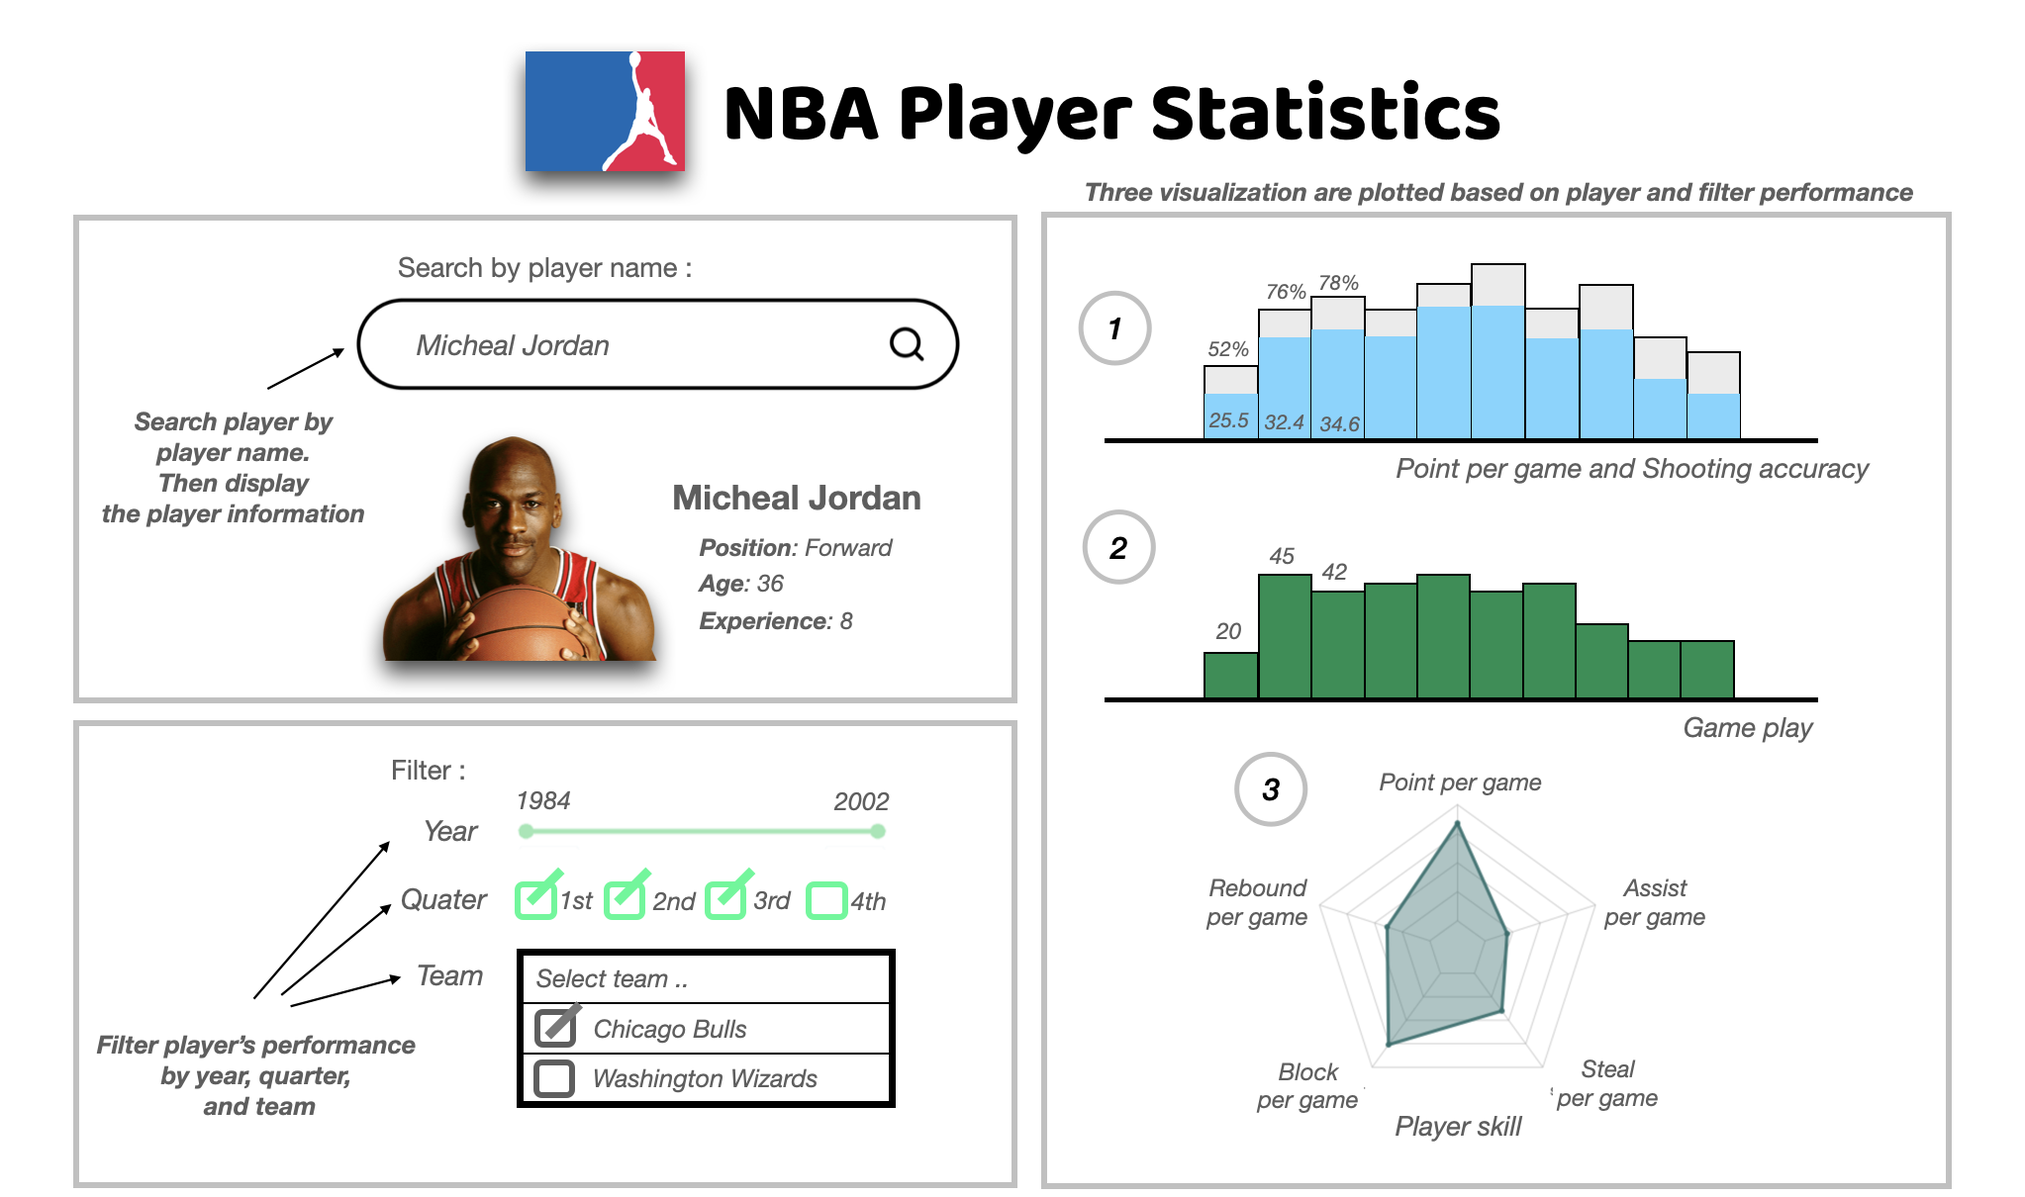
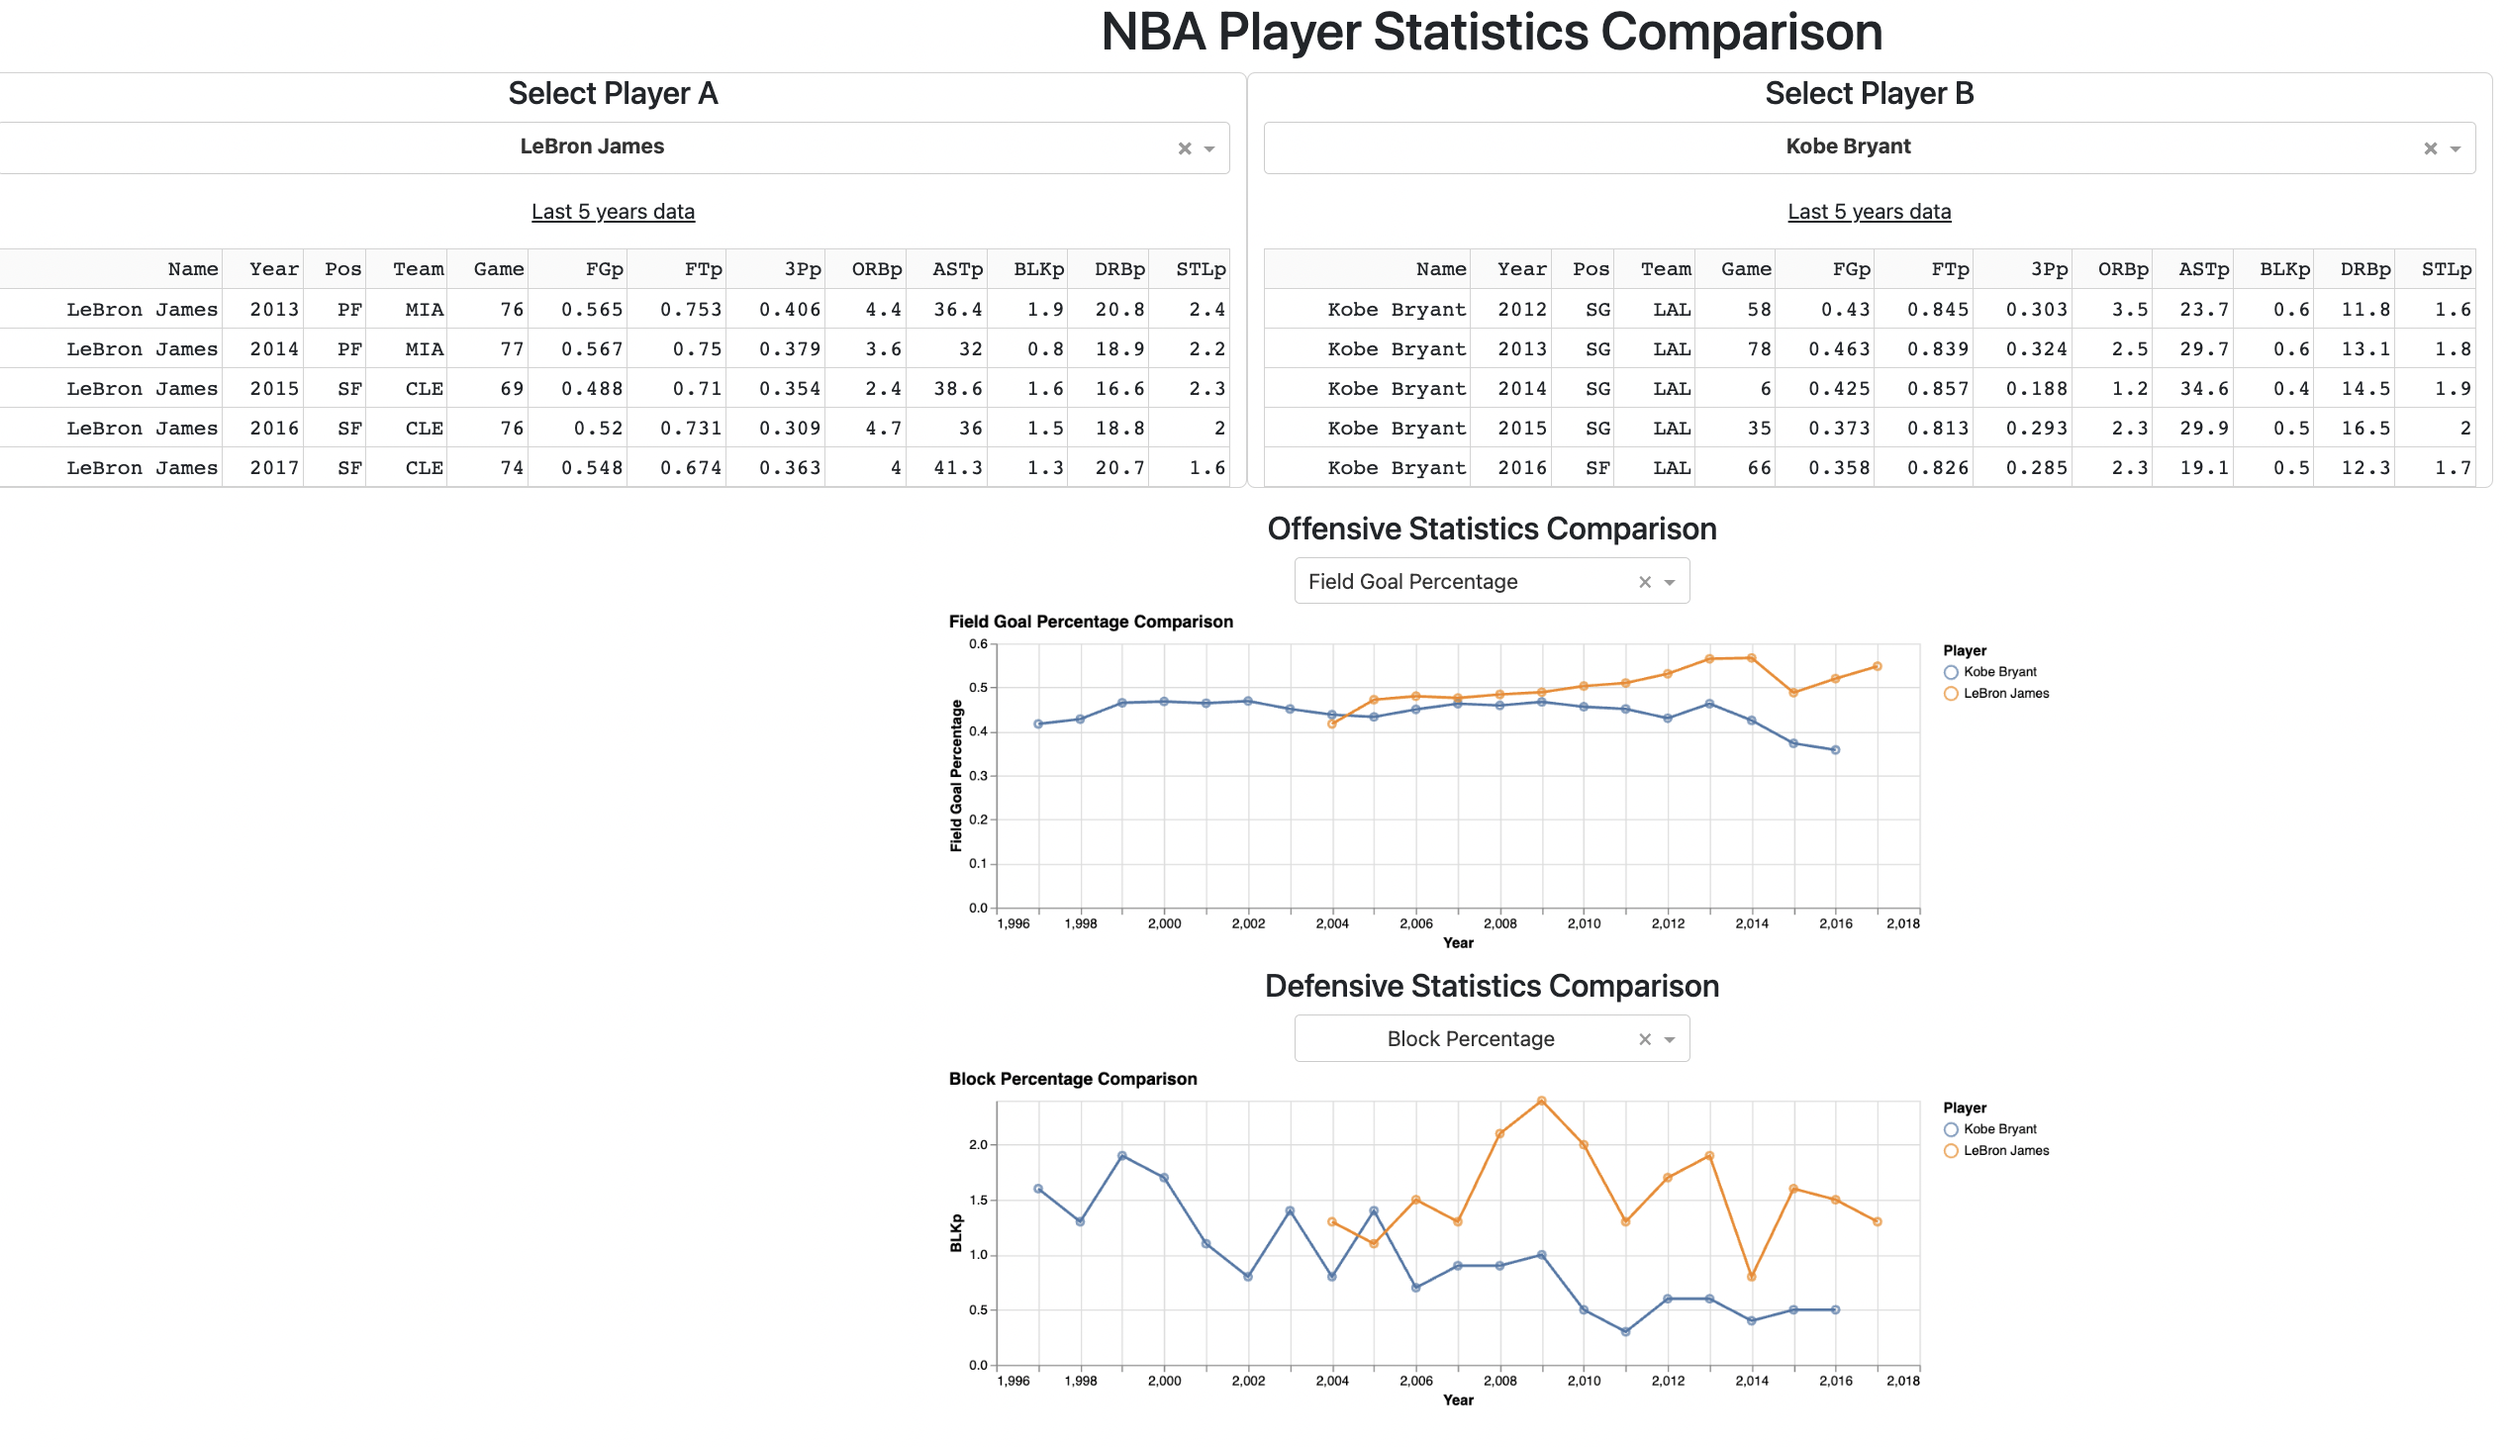
update viz

diff --git a/README.md b/README.md
@@ -5,11 +5,11 @@ The NBA Player Comparison dashboard can be accessed [here](https://cchchechen.sh
 
 ## Welcome!
 
-Welcome to the repository of the NBA Performance App  :confetti_ball:  ！
+Welcome to the `NBA Player Comparison` App  :confetti_ball:  ！
 
-Thank you for visiting our project,hope all of you can enjoy browsing the NBA player performance.
+Thank you for visiting my project and hope all of you can enjoy browsing the NBA player performance.
 
-This document provides basic information of this NBA Player Performance.Please feel free to navigate each section by the list below: 
+This document provides statistics comparison of NBA Player Players form 1950 till 2017. Please feel free to navigate each section by the list below: 
 
 * [What are we doing?](#what-are-we-doing)
 * [Description of App](#description-of-app)
@@ -21,79 +21,62 @@ This document provides basic information of this NBA Player Performance.Please f
 
 ### The problem
 
-How can we understand a NBA player's historical performance and skills during their career?
-
+How can we compare different key abilities of each NBA players?
 
 ### The solution
 
-The NBA performance app will:
+The `NBA Player Comparison` app will:
 
-* Improve visibility for the player's historical performance data.
-* Help NBA fans better understand their favorite players and visualize how the players have performed historically over time and across players and teams.
-* Let fans to determine a player's style such as what kind of player he is, how many games he plays, how much he scores per game, the number of assists, etc., and use this as a starting point to get to know a new player better. 
+* Help comparing NBA player skills between players
+* Help NBA fans better understand their favorite players and visualize the players performances in each categories such as offensive skills and defensive skills.
 
-The most important thing is that we can honor and learn those former NBA superstars, such as Micheal Jordan and Kobe Bryant, by visualizing their performances. For instance, Kobe Bryant, we can learn about the wonders the legendary superstar created with the Lakers and the glory of the purple and gold dynasty with scored 33,643 points, 7,047 rebounds, and 6,306 assists during the entire career. Salute to the eternal Lakers #24.
+The most important thing is that we can honor and learn those former NBA superstars, such as Micheal Jordan and Kobe Bryant, by visualizing their performances.
 
 ## Description of App
 
-The visualization app contains a landing page that shows NBA player performances. The visualization comprises the data of over 500 NBA players among 30 NBA teams. This app aims to help enthusiast NBA fans to understand better and assess NBA player performances.
+The `NBA Player Comparison` app contains a landing page that shows NBA player skills in multiple categories. The visualization comprises the data of over xx NBA players among 30 NBA teams from 1950-2017. This app aims to help enthusiast NBA fans compare and understand abilities of players. 
 
-The visualization is designed to display multiple statistics of NBA players. The app allows users to search for an interested NBA player by name with a search box item, for example, "Micheal Jordan", the app then shows the corresponding player's information. Furthermore. the users then are able to filter and scope the performances of the players with three types of filters,
+The visualization is designed to display multiple statistics of NBA players. The app allows users to search for a pair of interested NBA players by name with a search box item, the app then shows the corresponding player's information. Furthermore. the users are able to select both offensive skills and defensive skills to compare. The app provides functionalities as,
 
-- A slider of the year the player plays in NBA. 
+- Player name search bar to choose a pair of players to compare.
 
-- A check box of statistics to show.
+- Statistics of the last 5 years of selected players.
 
-- A check box of the team the player plays for. 
+- A check box to choose an offensive skill to compare such as Field Goal Percentage(FGp), Free Throw Percentage(FTp), 3-Point Percentage(3Pp), Offensive Rebound Percentage(ORBp), Assist Percentage(ASTp).
 
-- A Tick box of the whole career statistics of the player.
+- A check box to choose a defensive skill to compare such as Block Percentage(BLKp), Defensive Rebound Percentage(DRBp), Steal Percentage(STLp).
 
-We aim to offer three charts of player performances; Scoring performance(Point per game, Shooting accuracy), Game play(Number of games), and Skill indicators(Point per game, Total Rebound per game, Assist per game, Steal per game, and Block per game). These will show the player's performances according to the player search and its filter.
+We provides two charts to visualize and compare the players' skills.
 
-Therefore, users can study each NBA player's performance in detail and understand more about the player they are interested in.
+Therefore, users can compare each NBA player's performance in detail and understand more about the player they are interested in.
 
 
 ## Sketch
-<img src="img/dashboard_design_version4.png">
+<img src="img/dashboard_design_version1.png">
 
 ## Contributors
-The contributors of this project are Peng Zhang, Fujie Sun, Chen Lin, and Nate Puangpanbut.
+The contributors of this project is Nate Puangpanbut.
 
-## Installation
+## Usage
 
-To install `nba_player_stat` locally, you can:
+To install `nba_player_comparison` locally, you can:
 
 1. Clone this repository with:
 
 ```
-git clone https://github.com/UBC-MDS/nba_player_stat.git
+git clone https://github.com/Suraporn/nba_player_comparison.git
 ```
 
-2. Run the following command in your R console to install the required libraries locally:
+2. xxx
 
-```{r}
-install.packages(c('tidyverse', 'dplyr', 'plyr', 'shiny', 'ggplot2', 'plotly', 'rvest', 'ggrepel', 'readr', 'RCurl', 'jpeg', 'thematic', 'httr', 'stringr', 'htmltools', 'devtools'))
-```
-```{r}
-devtools::install_github("ricardo-bion/ggradar", 
-                          dependencies = TRUE)
-```
-
-3. Finally, run the app locally by: 
-
-- Open `Rstudio`, navigate to the project folder, open `app.R` and run it by clicking `Run` button on the top-right of RStudio.
-
-- Open a command line, navigate to the project folder, run the following command to run the app locally:
-    ```
-    RScript app.R
-    ```
+3. xxx
 
 ## Get involved 
 
-If you have any new ideas and suggestions for improvement about this app, please feel free to contact us. The main contact email is: althrunsun@gmail.com
+If you have any new ideas and suggestions for improvement about this app, please feel free to contact us. The main contact email is: suraporn83@gmail.com
 
 Please note that it's very important to us that we maintain a positive and supportive environment for everyone who wants to participate. You can check the code of conduct for more details if you want to be with us.
 
 # License
-`nba_player_stat` is licensed under the terms of the MIT license.
-Please refer to the License File [here](https://github.com/UBC-MDS/nba_player_stat/blob/main/LICENSE)
+`nba_player_comparison` is licensed under the terms of the MIT license.
+Please refer to the License File [here](https://github.com/Suraporn/nba_player_comparison/blob/main/LICENSE)
